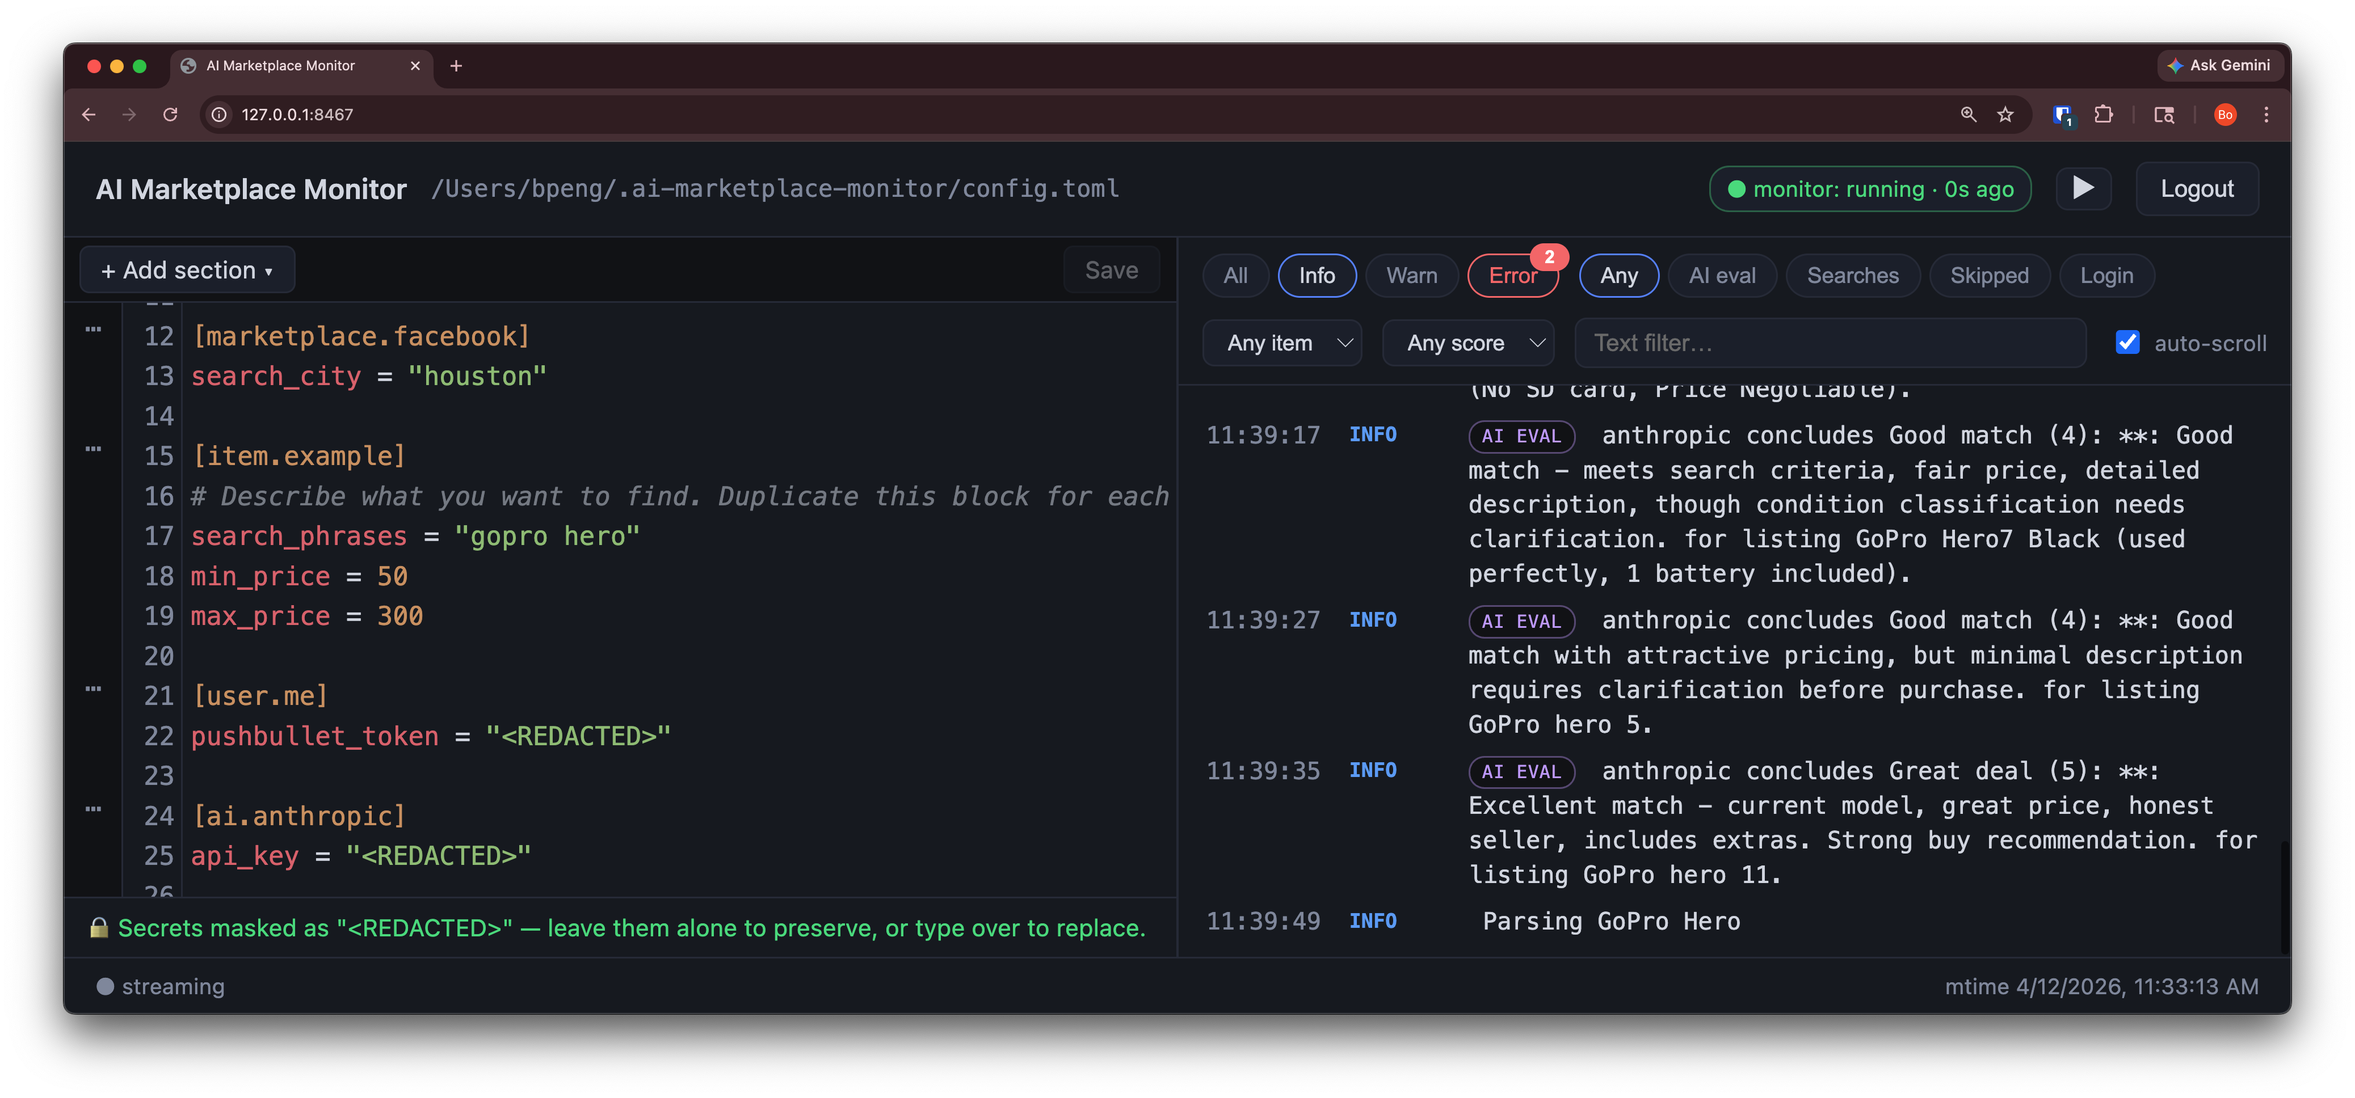
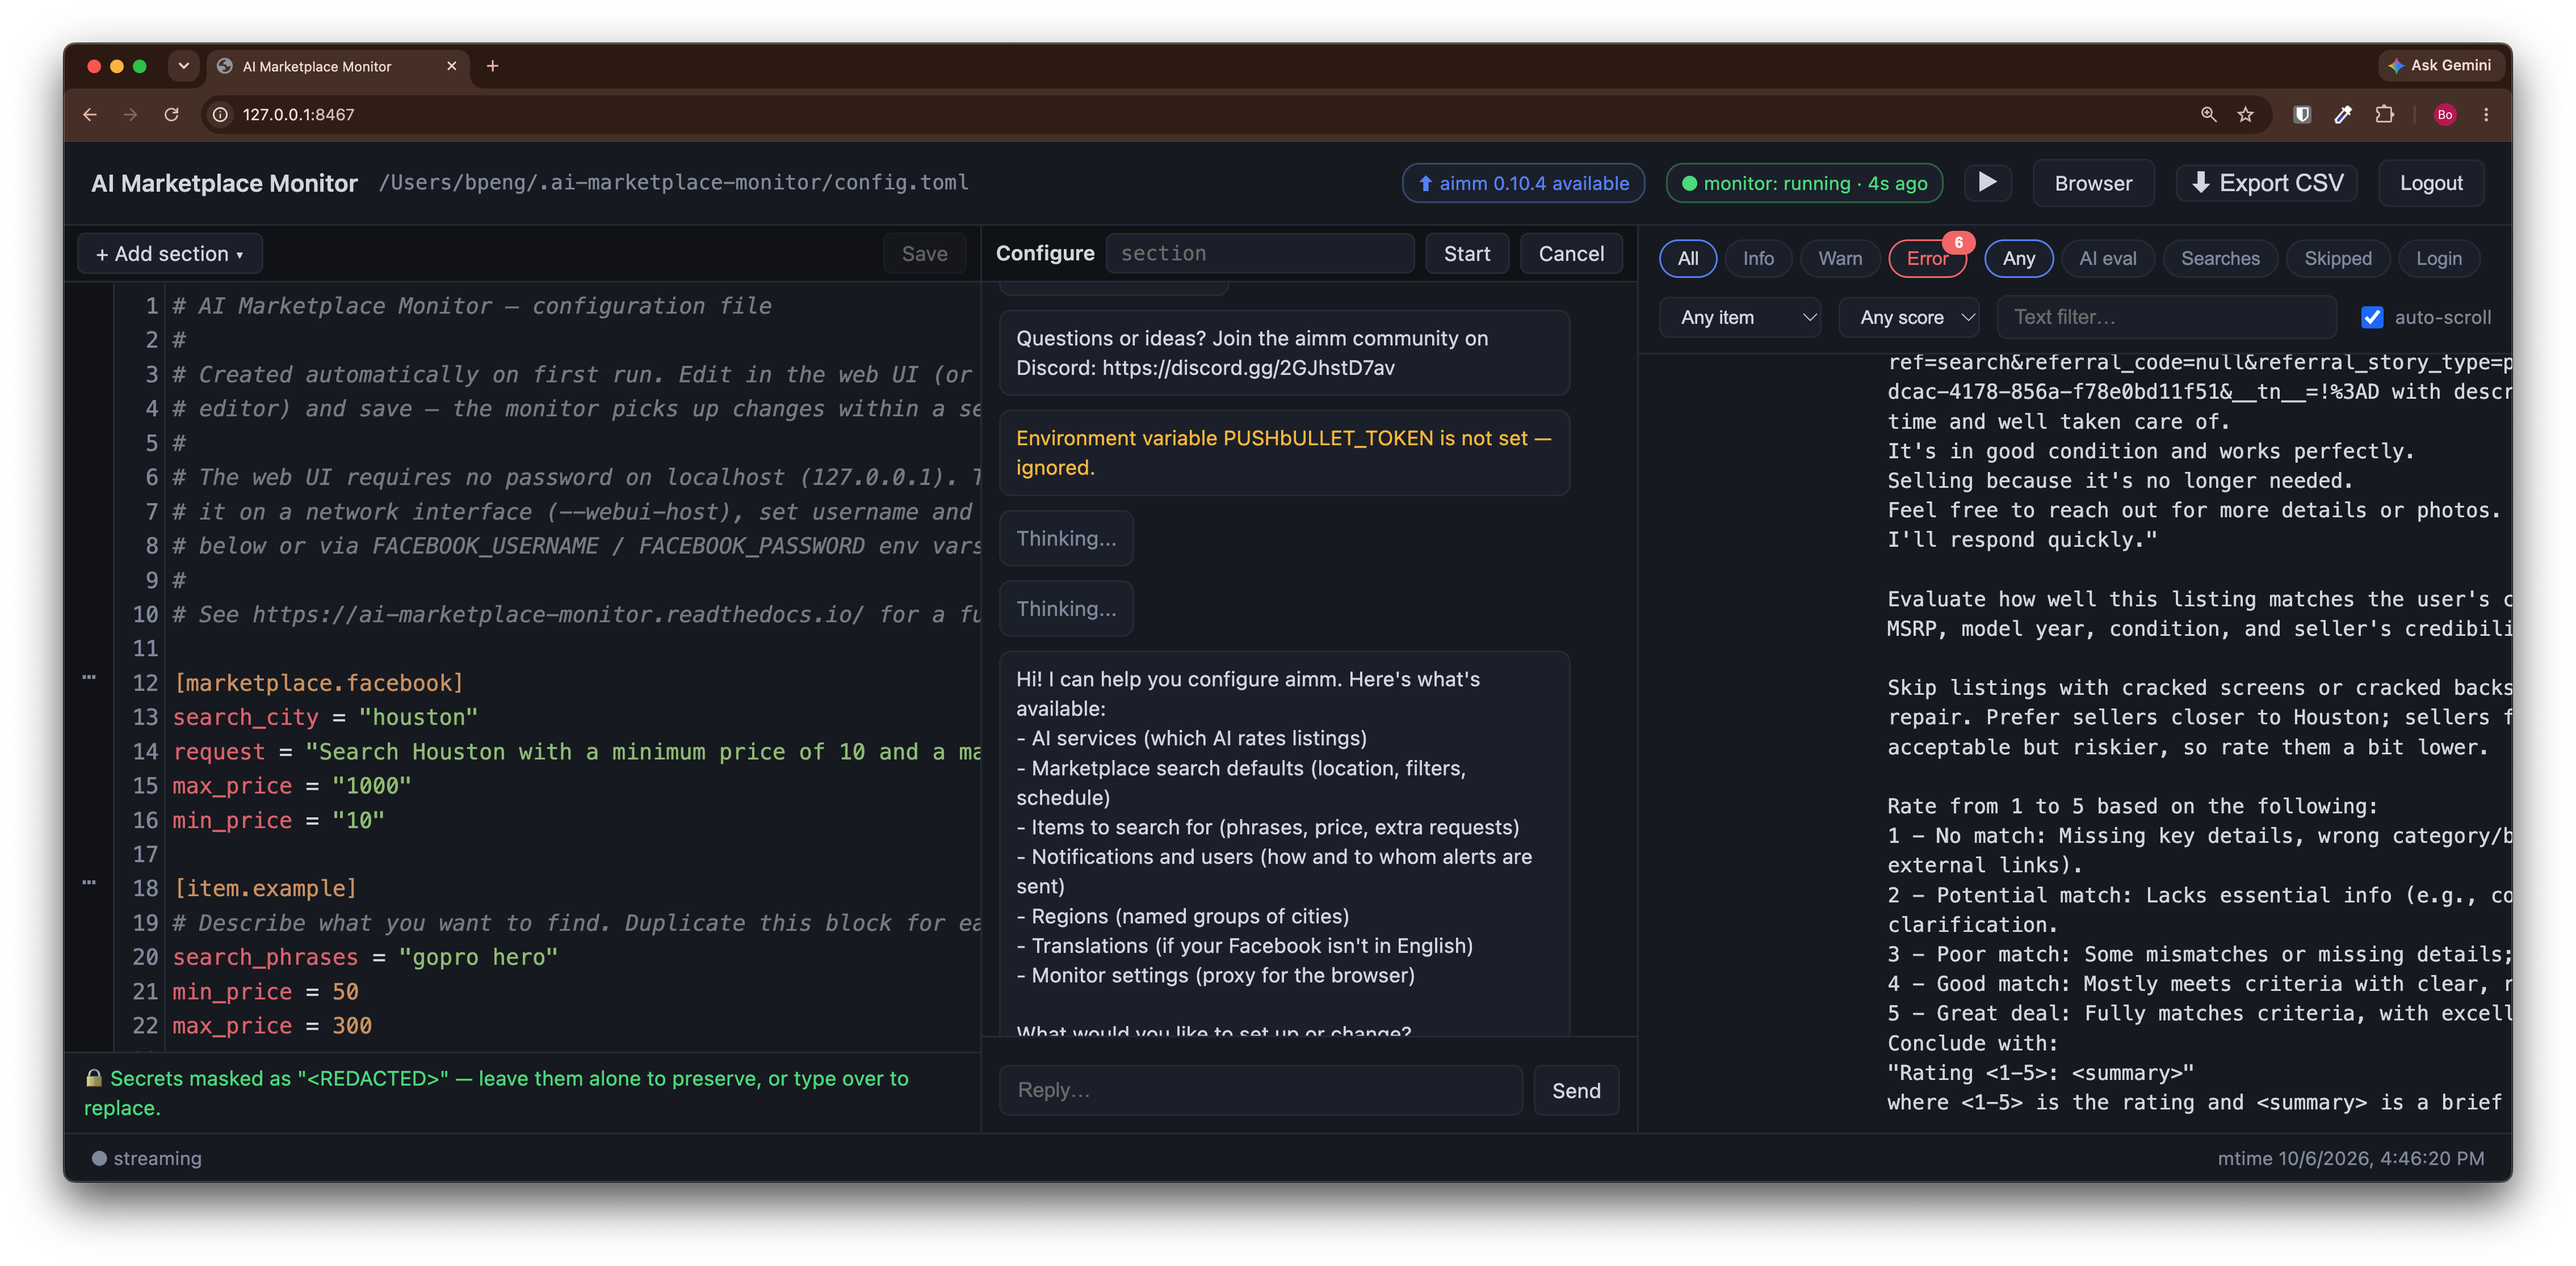
Point users to the aimm Discord community (#384)
* Point users to the aimm Discord community

- README Support section: Discord first (no GitHub account needed); general
  questions go there or to GitHub Discussions, bugs to Issues.
- aimm run logs a "[Community]" line with the invite at startup (terminal
  and web UI log).
- aimm configure prints the same line before the AI's greeting.
- The invite is one constant, DISCORD_URL, in the package __init__.

* Add Discord note to discussion template

* Update web UI screenshot

---------

diff --git a/tests/test_configure_cli.py b/tests/test_configure_cli.py
@@ -4,6 +4,7 @@ from typing import Any, Dict, List
 import pytest
 from typer.testing import CliRunner
 
+from ai_marketplace_monitor import COMMUNITY_MESSAGE
 from ai_marketplace_monitor import cli as root_cli
 from ai_marketplace_monitor.configure import cli, flow
 from ai_marketplace_monitor.configure.ui import ScriptedSetupUI
@@ -257,6 +258,7 @@ async def test_aimm_configure_routes_a_request_to_the_section(
     )
     ui = ScriptedSetupUI(["limit my Houston search to 20 miles", "yes"])
     assert await flow.configure_front_door(ui, [config], home=tmp_path) == 0
+    assert COMMUNITY_MESSAGE in ui.said("info")  # aimm itself points to the community
     assert read(config)["marketplace"]["facebook"]["radius"] == [20]
     assert read(config)["item"]["example"] == {
         "search_phrases": "road bike",

diff --git a/src/ai_marketplace_monitor/monitor.py b/src/ai_marketplace_monitor/monitor.py
@@ -12,6 +12,7 @@ from playwright.sync_api import Browser, Playwright, sync_playwright
 from rich.pretty import pretty_repr
 from rich.prompt import Prompt
 
+from . import COMMUNITY_MESSAGE
 from .ai import AIBackend, AIResponse
 from .config import (
     Config,
@@ -503,6 +504,8 @@ class MarketplaceMonitor:
         from .update_check import check_in_background
 
         check_in_background(self.logger, self.config.monitor.check_updates)
+        if self.logger:
+            self.logger.info(f"""{hilight("[Community]", "info")} {COMMUNITY_MESSAGE}""")
         # If requested (by the web UI), defer browser launch until
         # marketplace credentials are set. Without this, Playwright
         # navigates to the Facebook login page and waits for manual

diff --git a/src/ai_marketplace_monitor/configure/flow.py b/src/ai_marketplace_monitor/configure/flow.py
@@ -5,6 +5,7 @@ from __future__ import annotations
 from pathlib import Path
 from typing import Dict, List, Set, Tuple
 
+from .. import COMMUNITY_MESSAGE
 from ..ai import AIBackend
 from ..config import supported_ai_backends
 from ..utils import amm_home
@@ -318,4 +319,5 @@ async def configure_front_door(
         return 0
     if ai is None:
         return 1
+    await ui.say(COMMUNITY_MESSAGE)
     return await run_session(ui, config_files, ai, toolkits(), home=home)

diff --git a/src/ai_marketplace_monitor/__init__.py b/src/ai_marketplace_monitor/__init__.py
@@ -5,6 +5,10 @@ from importlib.metadata import PackageNotFoundError, version
 __author__ = """Bo Peng"""
 __email__ = "ben.bob@gmail.com"
 
+# where users ask questions and share ideas (shown by aimm run and aimm configure)
+DISCORD_URL = "https://discord.gg/2GJhstD7av"
+COMMUNITY_MESSAGE = f"Questions or ideas? Join the aimm community on Discord: {DISCORD_URL}"
+
 try:
     __version__ = version("ai-marketplace-monitor")
 except PackageNotFoundError:

diff --git a/README.md b/README.md
@@ -261,13 +261,14 @@ This project is licensed under the **Affero General Public License (AGPL)**. For
 
 We provide multiple ways to access support and contribute to AI Marketplace Monitor:
 
+- 💬 [Discord](https://discord.gg/2GJhstD7av) - Ask questions, share your searches, and hear about new releases (no GitHub account needed)
 - 📖 [Documentation](https://ai-marketplace-monitor.readthedocs.io/) - Comprehensive guides and instructions
 - 🤝 [Discussions](https://github.com/BoPeng/ai-marketplace-monitor/discussions) - Community support and ideas
 - 🐛 [Issues](https://github.com/BoPeng/ai-marketplace-monitor/issues) - Bug reports and feature requests
 - 💖 [Become a sponsor](https://github.com/sponsors/BoPeng) - Support development
 - 💰 [Donate via PayPal](https://www.paypal.com/donate/?hosted_button_id=3WT5JPQ2793BN) - Alternative donation method
 
-**Important Note:** Due to time constraints, priority support is provided to sponsors and donors. For general questions, please use the GitHub Discussions or Issues.
+**Important Note:** Due to time constraints, priority support is provided to sponsors and donors. For general questions, please join us on [Discord](https://discord.gg/2GJhstD7av) or use GitHub Discussions; report bugs as GitHub Issues.
 
 ## 🙏 Credits
 

diff --git a/.github/ISSUE_TEMPLATE/discussion.md b/.github/ISSUE_TEMPLATE/discussion.md
@@ -6,6 +6,9 @@ labels: discussion
 assignees: ""
 ---
 
+For quick questions, informal help, search ideas, and release updates, you can
+also join our Discord community: https://discord.gg/2GJhstD7av
+
 **Topic or Idea**
 Briefly describe the topic or idea you'd like to discuss. Be clear and concise to help others understand the focus of the conversation.
 
